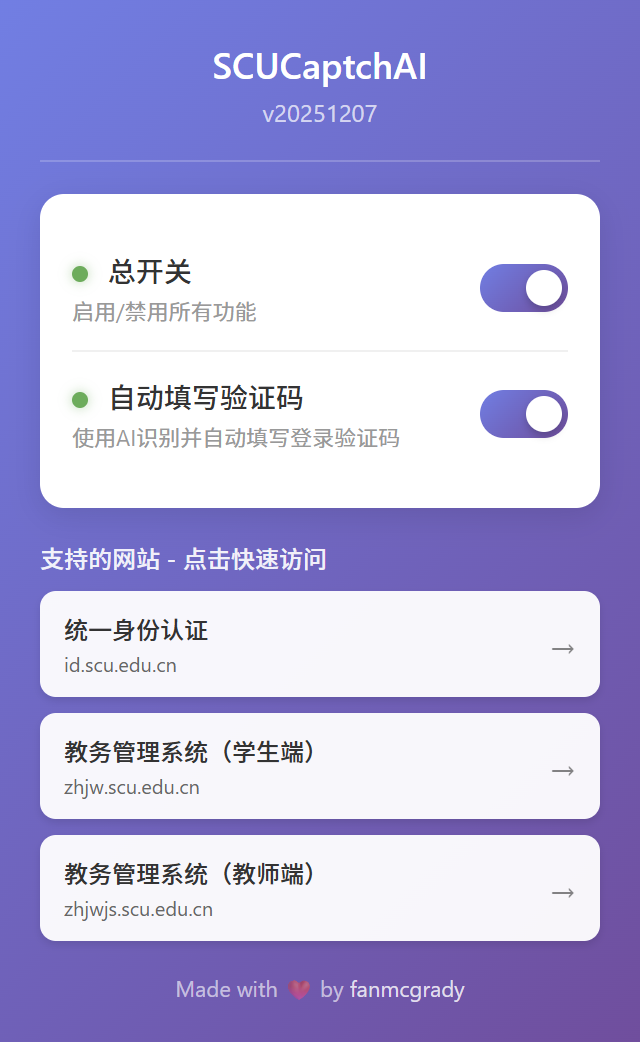
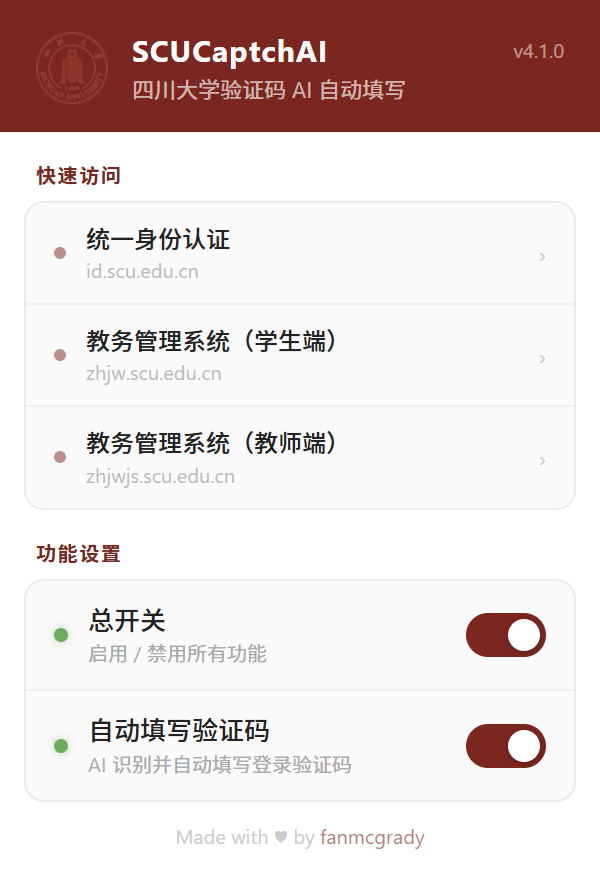
Update README and replace popup screenshot

diff --git a/README.md b/README.md
@@ -3,15 +3,24 @@
 四川大学网站验证码 AI 自动识别填写插件。
 
 <p align="center">
-  <img src="img/page.png" width="50%" alt="插件界面">
+  <img src="img/page.png" width="40%" alt="插件界面">
 </p>
 
 ## 支持网站
 
-- 统一身份认证 (id.scu.edu.cn)
-- WebVPN 门户
-- 教务管理系统 (zhjw.scu.edu.cn)
-- 教师端教务系统 (zhjwjs.scu.edu.cn)
+| 网站 | 地址 |
+|------|------|
+| 统一身份认证 | id.scu.edu.cn |
+| WebVPN 门户 | webvpn.scu.edu.cn |
+| 教务管理系统（学生端） | zhjw.scu.edu.cn |
+| 教务管理系统（教师端） | zhjwjs.scu.edu.cn |
+
+## 功能
+
+- 自动识别并填写登录验证码，无需手动输入
+- 验证码图片刷新后自动重新识别
+- 支持 WebVPN 代理访问
+- 可通过插件弹窗随时开关功能
 
 ## 安装方法
 
@@ -21,8 +30,8 @@
 
 1. 下载本项目源码并解压
 2. 打开浏览器，地址栏输入：
-   - Chrome: `chrome://extensions`
-   - Edge: `edge://extensions`
+   - Chrome：`chrome://extensions`
+   - Edge：`edge://extensions`
 3. 开启右上角的 **开发者模式**
 4. 点击 **加载已解压的扩展程序**
 5. 选择本项目文件夹
@@ -35,4 +44,3 @@
 ## 作者
 
 [fanmcgrady](https://github.com/fanmcgrady)
-
